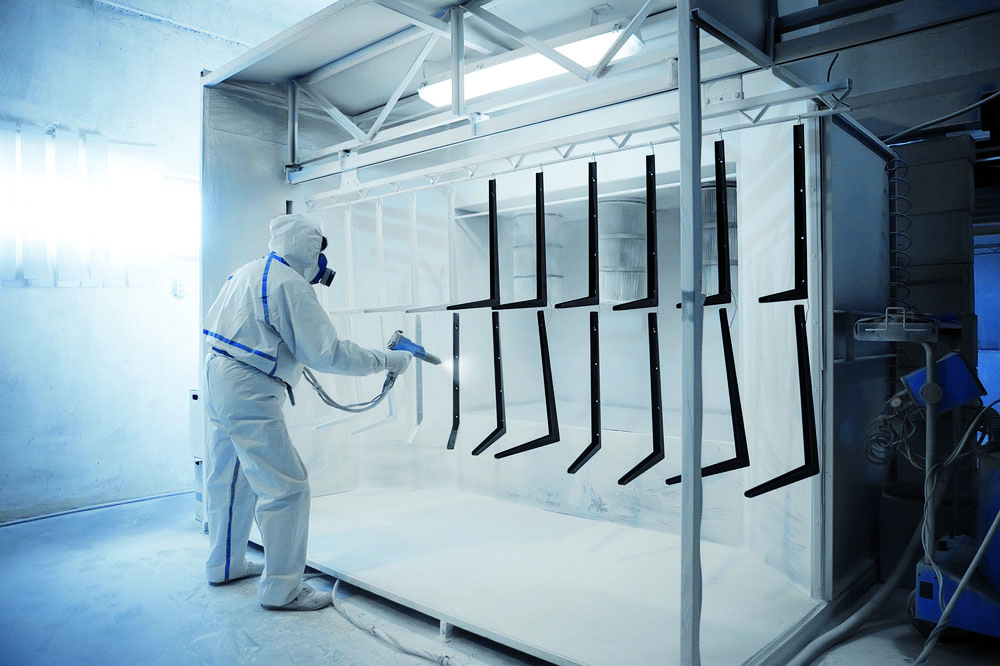
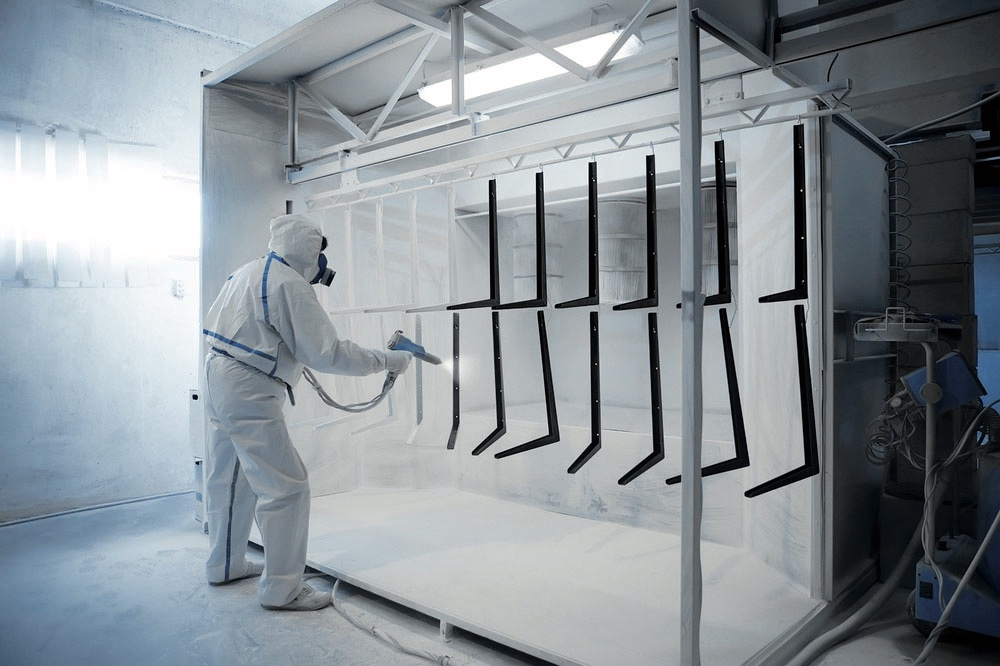
Galerie 13→24 photos : tri Vision des lots client + fix piece-2 CMJN
- 11 photos retenues sur 54 sources client (2 lots), redressées 90°,
  1200px, JPG q78 + WebP : portail-3/4, garde-corps-6, jante-2/3,
  moto-1, mobilier-1, atelier-3, thermolaquage-3, piece-3, cadres-1
- piece-2.jpg converti CMJN→sRGB + variante WebP + wrapper <picture>
- gitignore des dossiers sources bruts assets/images-sources{,2}

diff --git a/preprod/index.html b/preprod/index.html
@@ -626,9 +626,12 @@
           </button>
 
           <button type="button" class="gallery-item" data-category="autres" aria-label="Voir l'image en grand : Pièce thermolaquée n°2">
-            <img src="public/images/piece-2.jpg"
-                 alt="Pièce métallique thermolaquée — atelier STV 83 La Seyne-sur-Mer"
-                 loading="lazy" width="1000" height="666">
+            <picture>
+              <source srcset="public/images/piece-2.webp" type="image/webp">
+              <img src="public/images/piece-2.jpg"
+                   alt="Pièce métallique thermolaquée — atelier STV 83 La Seyne-sur-Mer"
+                   loading="lazy" width="1000" height="666">
+            </picture>
             <div class="gallery-caption">
               <span>Pièce n°2</span>
             </div>
@@ -727,6 +730,138 @@
             </picture>
             <div class="gallery-caption">
               <span>Atelier en action</span>
+            </div>
+          </button>
+
+          <button type="button" class="gallery-item" data-category="portails" aria-label="Voir l'image en grand : Portail coulissant à découpe laser">
+            <picture>
+              <source srcset="public/images/portail-3.webp" type="image/webp">
+              <img src="public/images/portail-3.jpg"
+                   alt="Portail coulissant à panneaux découpe laser en finition dans l'atelier — STV 83 La Seyne-sur-Mer"
+                   loading="lazy" width="1200" height="900">
+            </picture>
+            <div class="gallery-caption">
+              <span>Portail découpe laser</span>
+            </div>
+          </button>
+
+          <button type="button" class="gallery-item" data-category="garde-corps" aria-label="Voir l'image en grand : Garde-corps découpe laser thermolaqués blanc">
+            <picture>
+              <source srcset="public/images/garde-corps-6.webp" type="image/webp">
+              <img src="public/images/garde-corps-6.jpg"
+                   alt="Garde-corps à panneaux découpe laser thermolaqués blanc sur la chaîne — STV 83 Var"
+                   loading="lazy" width="1200" height="900">
+            </picture>
+            <div class="gallery-caption">
+              <span>Garde-corps découpe laser</span>
+            </div>
+          </button>
+
+          <button type="button" class="gallery-item" data-category="autres" aria-label="Voir l'image en grand : Jante automobile thermolaquée noir brillant">
+            <picture>
+              <source srcset="public/images/jante-2.webp" type="image/webp">
+              <img src="public/images/jante-2.jpg"
+                   alt="Jante automobile thermolaquée noir brillant suspendue sur la chaîne — STV 83 La Seyne-sur-Mer"
+                   loading="lazy" width="900" height="1200">
+            </picture>
+            <div class="gallery-caption">
+              <span>Jante noir brillant</span>
+            </div>
+          </button>
+
+          <button type="button" class="gallery-item" data-category="autres" aria-label="Voir l'image en grand : Jante thermolaquée blanc nacré">
+            <picture>
+              <source srcset="public/images/jante-3.webp" type="image/webp">
+              <img src="public/images/jante-3.jpg"
+                   alt="Jante automobile thermolaquée blanc nacré en finition atelier — STV 83 Var"
+                   loading="lazy" width="986" height="1200">
+            </picture>
+            <div class="gallery-caption">
+              <span>Jante blanc nacré</span>
+            </div>
+          </button>
+
+          <button type="button" class="gallery-item" data-category="autres" aria-label="Voir l'image en grand : Cadre et jantes de moto thermolaqués blanc">
+            <picture>
+              <source srcset="public/images/moto-1.webp" type="image/webp">
+              <img src="public/images/moto-1.jpg"
+                   alt="Cadre et jantes de moto thermolaqués blanc sur la chaîne de thermolaquage — STV 83"
+                   loading="lazy" width="1200" height="900">
+            </picture>
+            <div class="gallery-caption">
+              <span>Cadre &amp; jantes moto</span>
+            </div>
+          </button>
+
+          <button type="button" class="gallery-item" data-category="autres" aria-label="Voir l'image en grand : Tables métalliques thermolaquées marron">
+            <picture>
+              <source srcset="public/images/mobilier-1.webp" type="image/webp">
+              <img src="public/images/mobilier-1.jpg"
+                   alt="Série de tables métalliques thermolaquées marron — production en série STV 83 Var"
+                   loading="lazy" width="900" height="1200">
+            </picture>
+            <div class="gallery-caption">
+              <span>Mobilier métallique en série</span>
+            </div>
+          </button>
+
+          <button type="button" class="gallery-item" data-category="autres" aria-label="Voir l'image en grand : Atelier STV — chaîne de thermolaquage">
+            <picture>
+              <source srcset="public/images/atelier-3.webp" type="image/webp">
+              <img src="public/images/atelier-3.jpg"
+                   alt="Chaîne de thermolaquage et cabines de l'atelier STV 83 à La Seyne-sur-Mer"
+                   loading="lazy" width="1200" height="900">
+            </picture>
+            <div class="gallery-caption">
+              <span>L'atelier STV</span>
+            </div>
+          </button>
+
+          <button type="button" class="gallery-item" data-category="portails" aria-label="Voir l'image en grand : Préparation d'un portail découpe laser en atelier">
+            <picture>
+              <source srcset="public/images/portail-4.webp" type="image/webp">
+              <img src="public/images/portail-4.jpg"
+                   alt="Préparation d'un vantail de portail découpe laser avant thermolaquage — atelier STV 83 La Seyne-sur-Mer"
+                   loading="lazy" width="900" height="1200">
+            </picture>
+            <div class="gallery-caption">
+              <span>Préparation d'un portail</span>
+            </div>
+          </button>
+
+          <button type="button" class="gallery-item" data-category="autres" aria-label="Voir l'image en grand : Application de poudre en cabine de thermolaquage">
+            <picture>
+              <source srcset="public/images/thermolaquage-3.webp" type="image/webp">
+              <img src="public/images/thermolaquage-3.jpg"
+                   alt="Application de poudre jaune en cabine de thermolaquage sur une série de tubes — STV 83 Var"
+                   loading="lazy" width="900" height="1200">
+            </picture>
+            <div class="gallery-caption">
+              <span>Poudrage en cabine</span>
+            </div>
+          </button>
+
+          <button type="button" class="gallery-item" data-category="autres" aria-label="Voir l'image en grand : Plateau en tôle larmée thermolaqué orange">
+            <picture>
+              <source srcset="public/images/piece-3.webp" type="image/webp">
+              <img src="public/images/piece-3.jpg"
+                   alt="Plateau de benne en tôle larmée thermolaqué orange brillant — STV 83 La Seyne-sur-Mer"
+                   loading="lazy" width="900" height="1200">
+            </picture>
+            <div class="gallery-caption">
+              <span>Tôle larmée orange</span>
+            </div>
+          </button>
+
+          <button type="button" class="gallery-item" data-category="autres" aria-label="Voir l'image en grand : Cadres métalliques thermolaqués vert">
+            <picture>
+              <source srcset="public/images/cadres-1.webp" type="image/webp">
+              <img src="public/images/cadres-1.jpg"
+                   alt="Série de cadres métalliques thermolaqués vert sapin prêts à livrer — STV 83 Var"
+                   loading="lazy" width="900" height="1200">
+            </picture>
+            <div class="gallery-caption">
+              <span>Série thermolaquée vert</span>
             </div>
           </button>
         </div>
